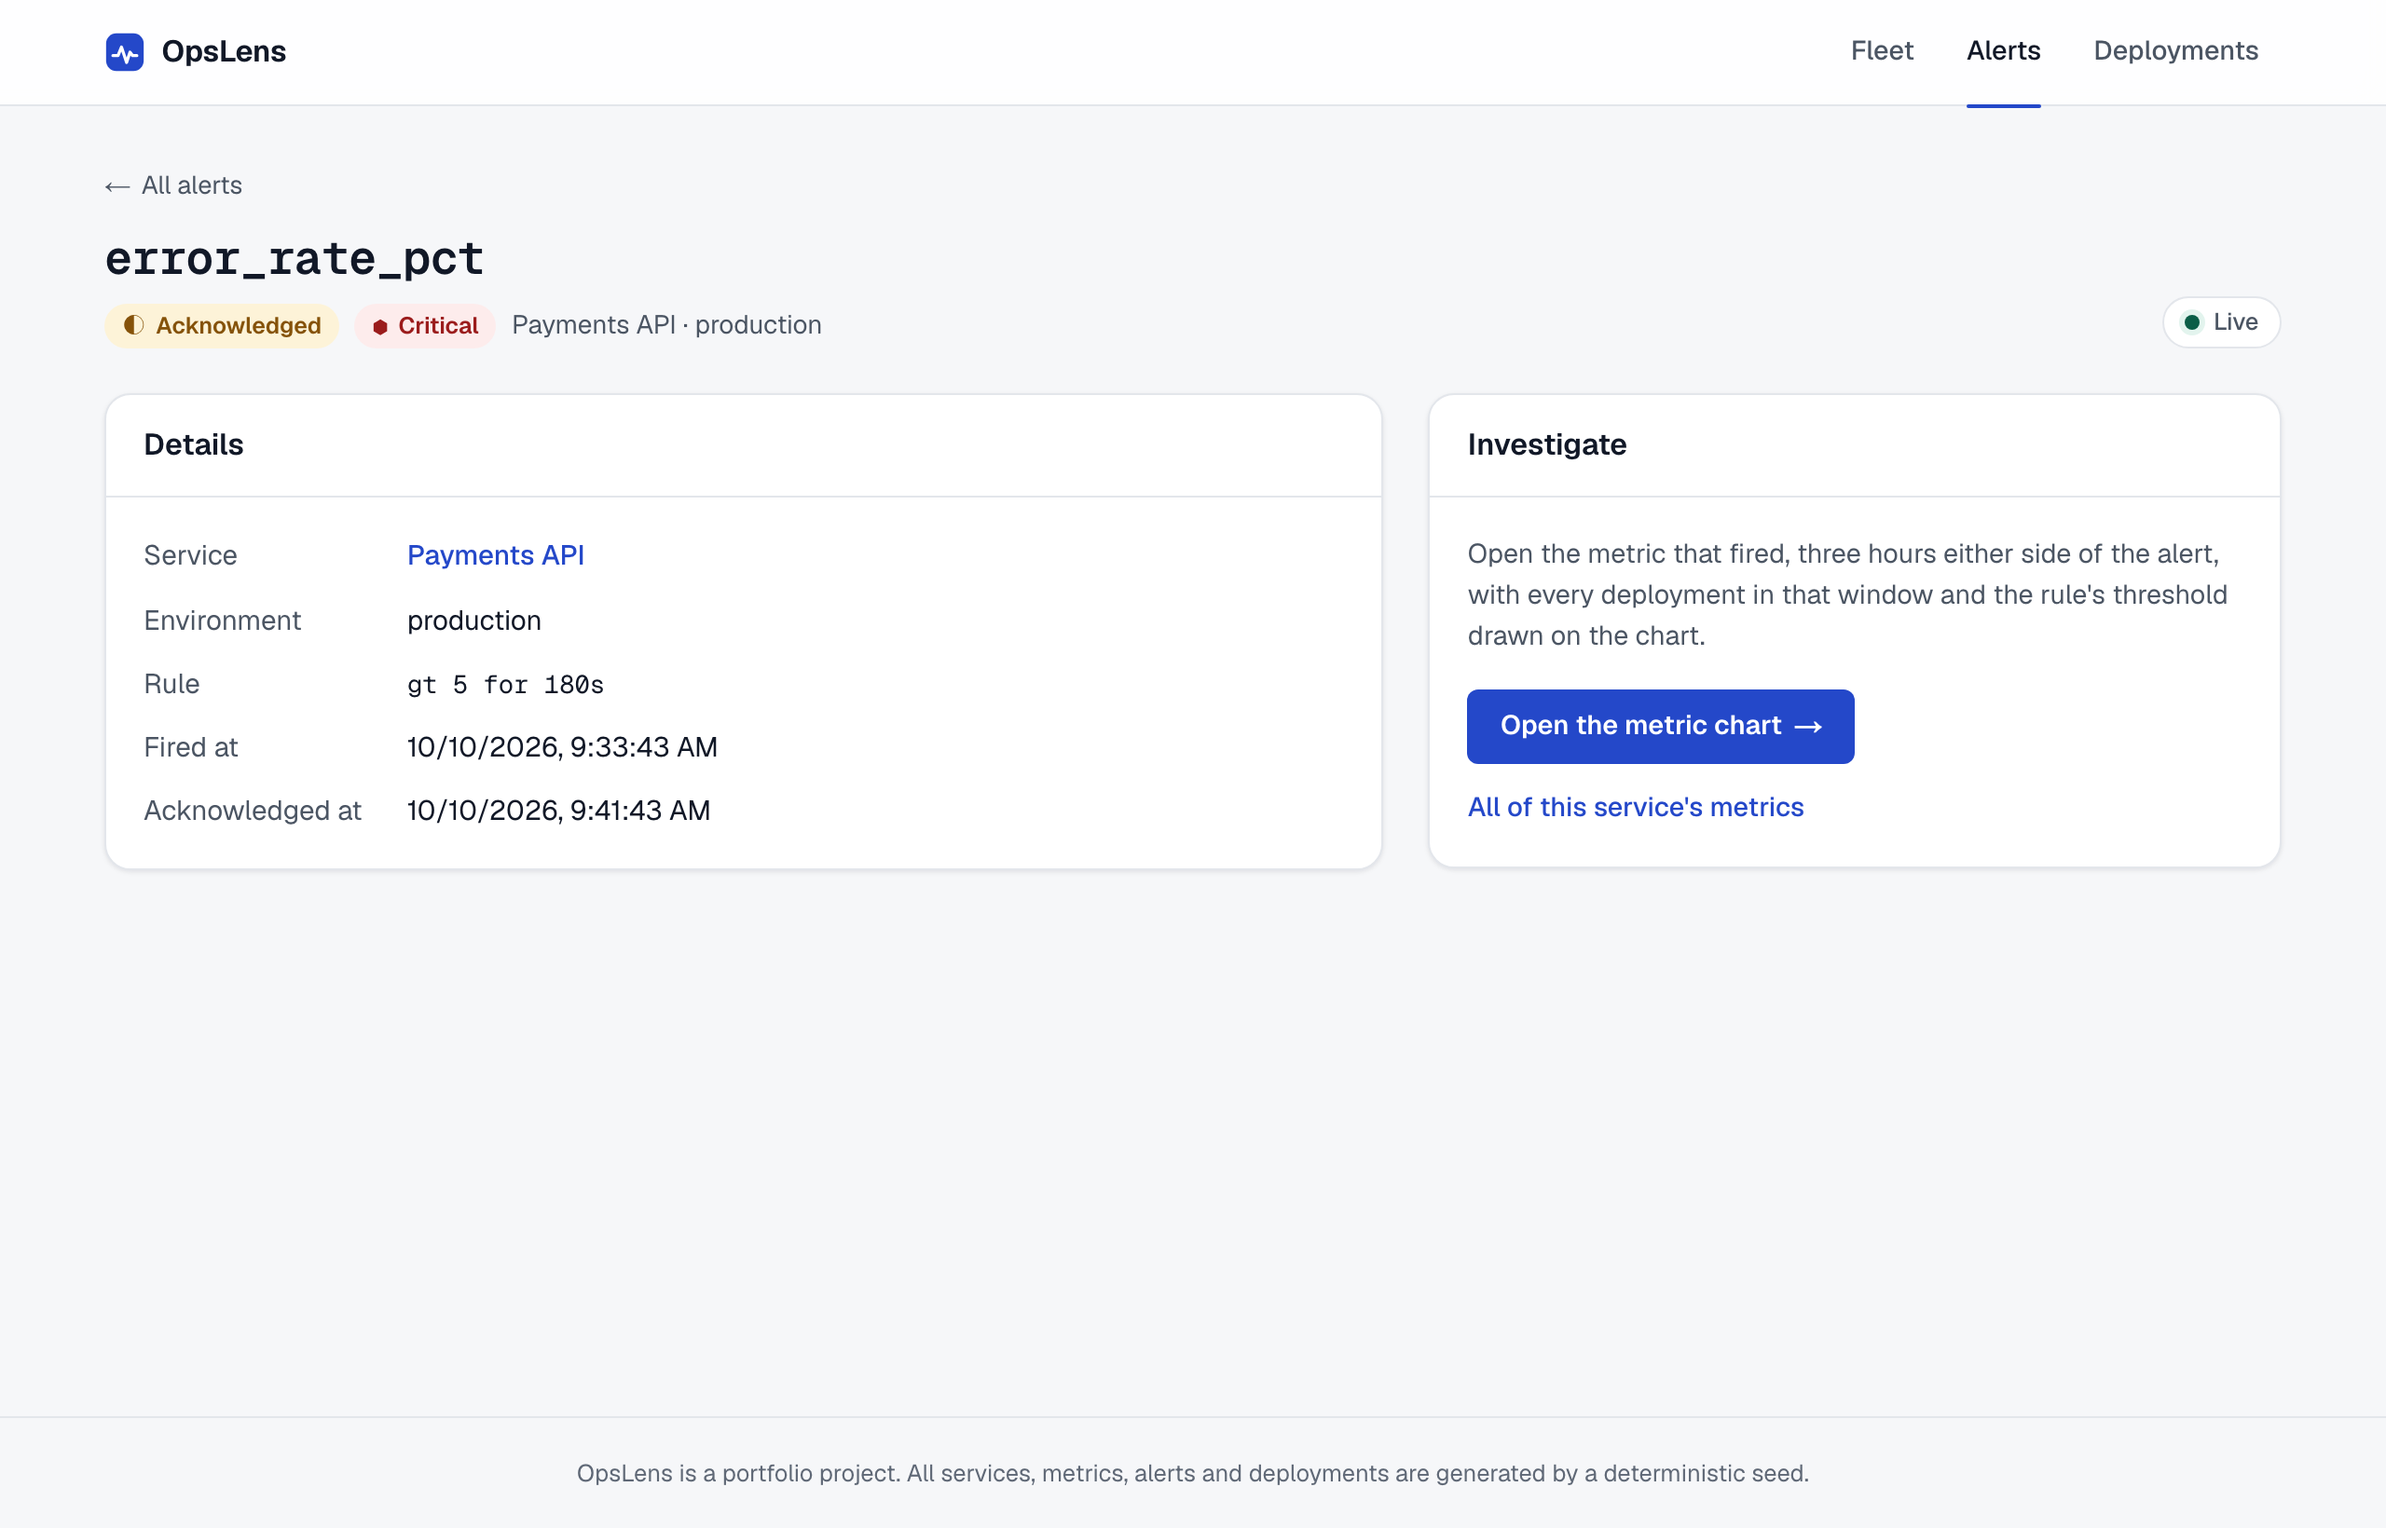
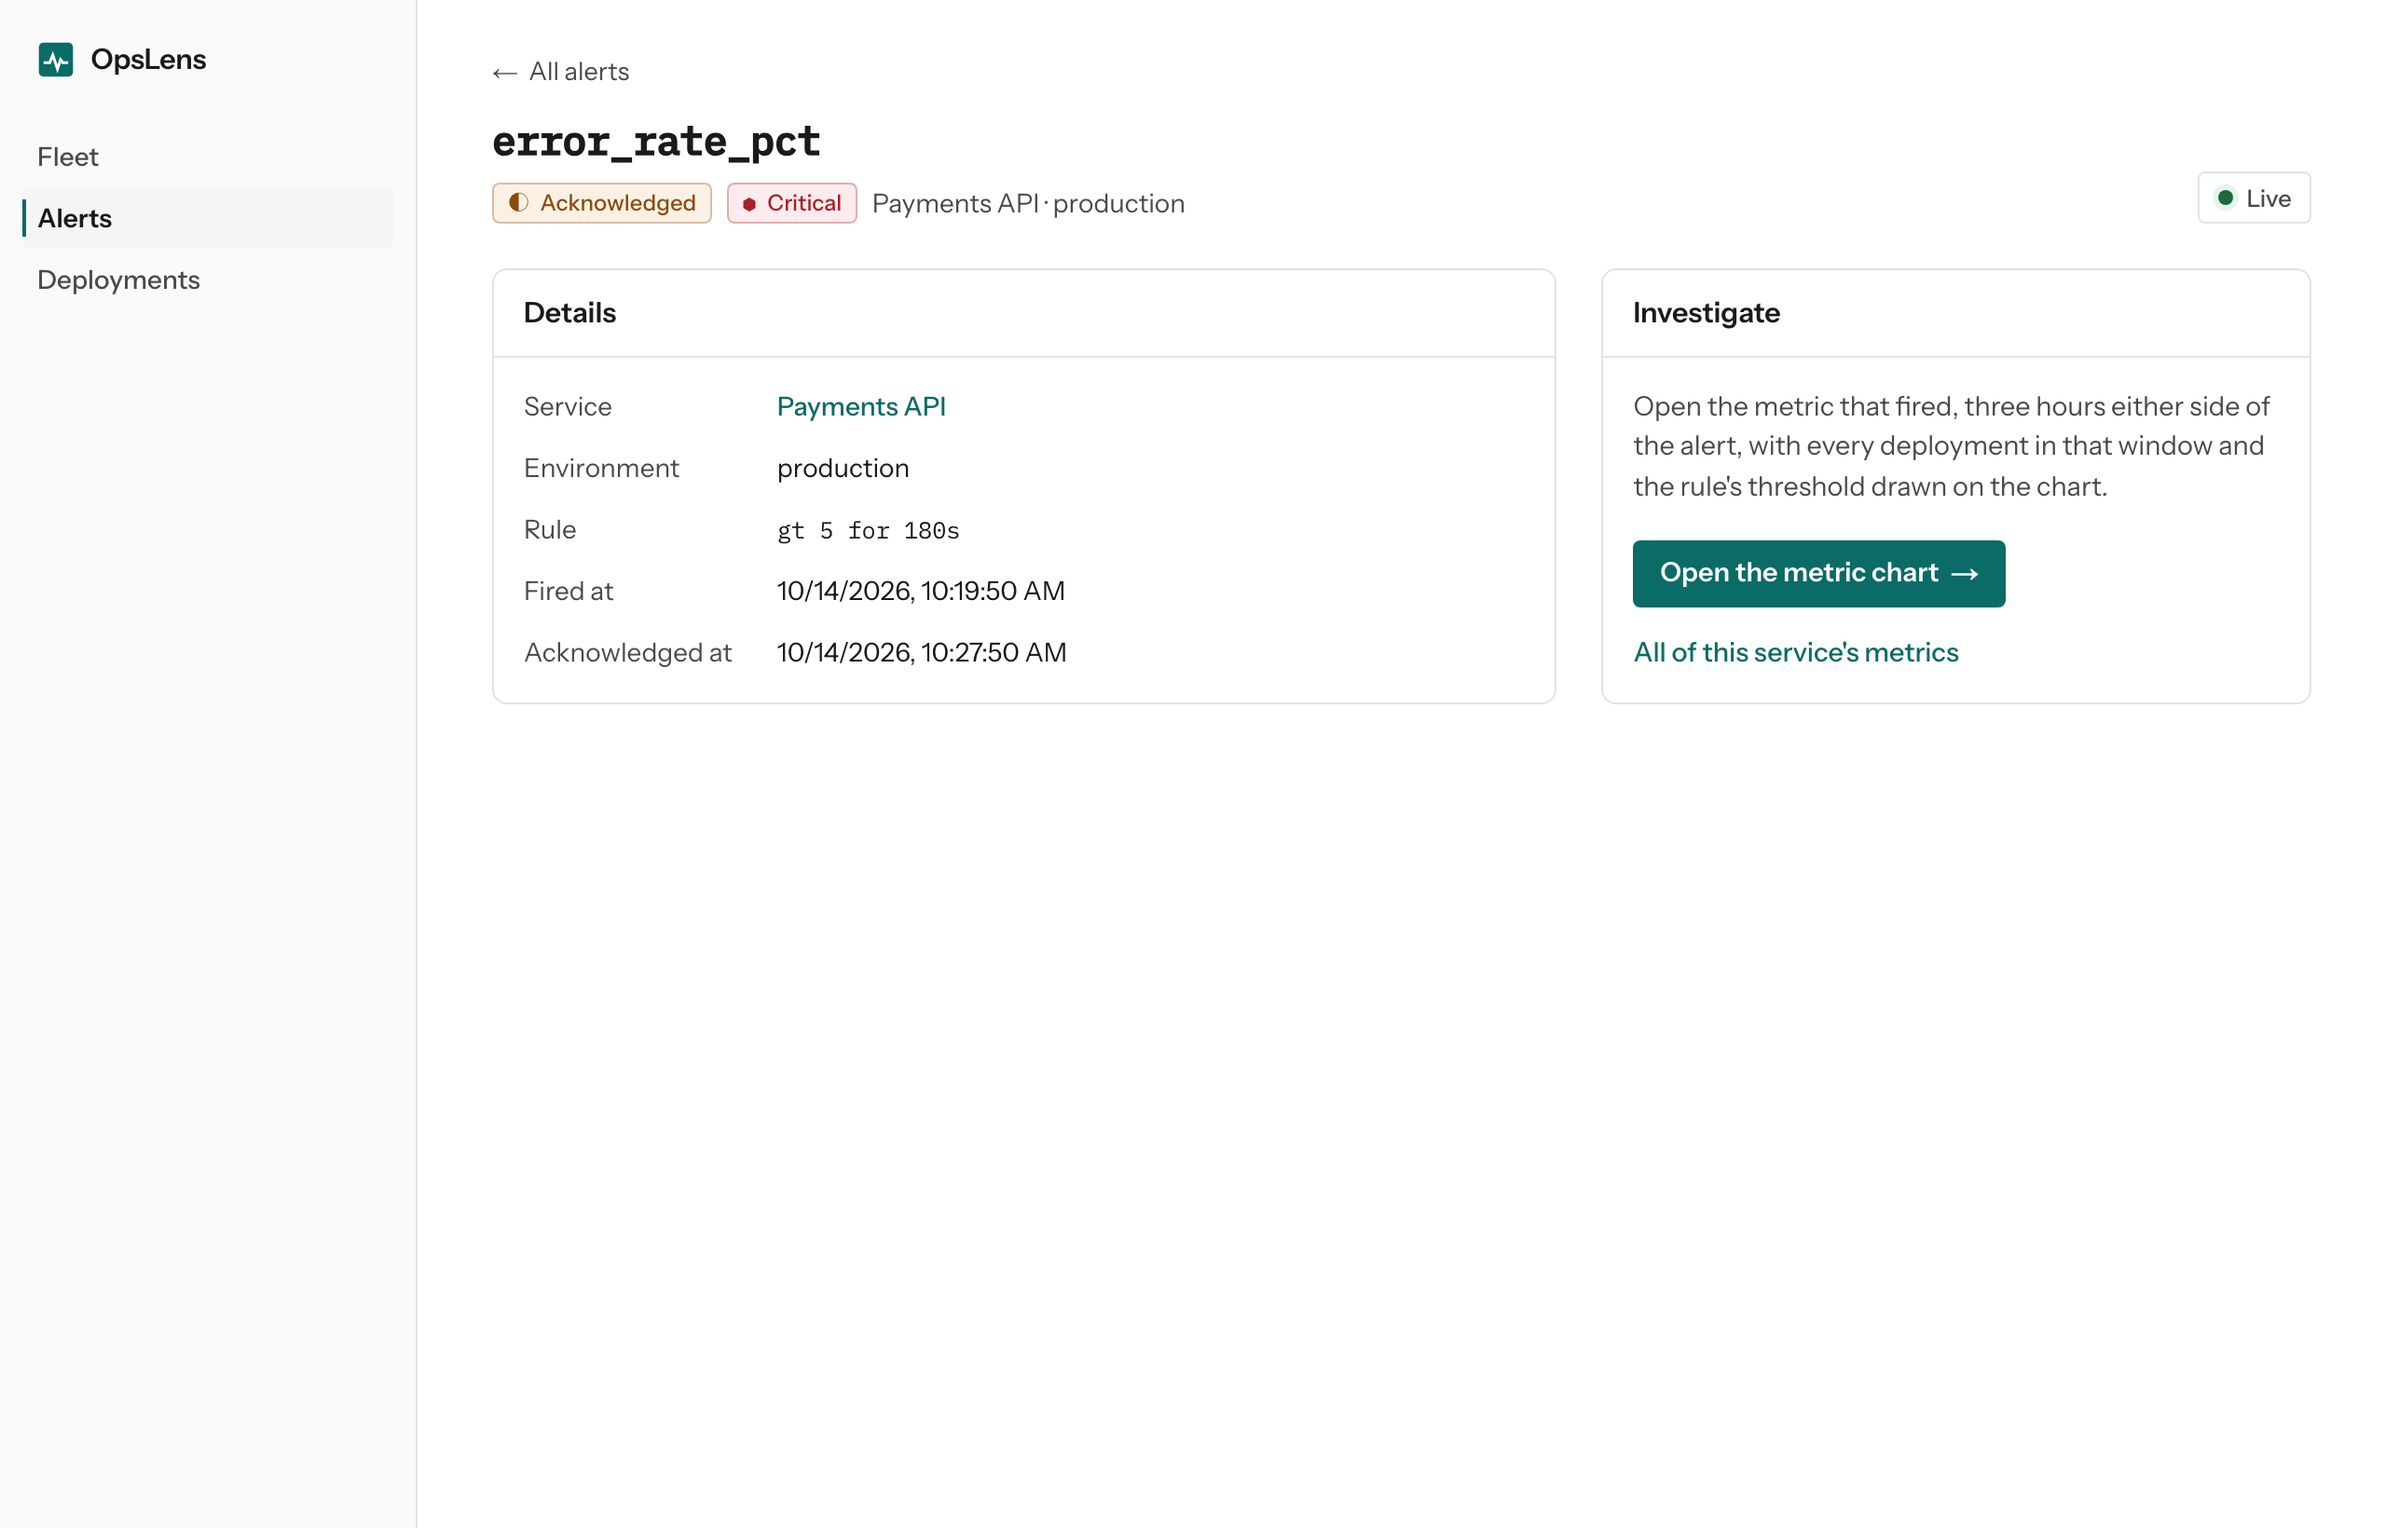
docs: record the dashboard redesign and refresh the screenshots
The README screenshots showed the pre-redesign look, so the five captures
of the seeded demo path are retaken the same way as before: 2x, 1280x820,
from a production build against a fresh seed. live-incident.png is left
as it was, because it comes from the hosted simulation and cannot be
reproduced from the local seed.

The accessibility report gets a section for the redesign rather than an
edit to the Phase 9 one, since that section records what was true then.
It lists the contrast check behind the new palette, the changed visual
signals for the current nav item and pressed presets, the commands run,
and what was not run.

diff --git a/docs/accessibility-report.md b/docs/accessibility-report.md
@@ -145,3 +145,43 @@ accessibility spec now runs its four flows once per scheme
 The 390px scans are a one-off check from this phase and are not part of CI.
 The same limits as above still apply: no screen-reader session was run, and
 nothing here is a conformance claim.
+
+## After Phase 9: the dashboard redesign
+
+A second visual pass replaced the token values (blue-tinted greys and a
+blue accent became neutral greys and a teal accent, shadows became 1px
+borders, Geist became Instrument Sans and IBM Plex Mono) and moved the
+primary navigation from a top bar into a left sidebar that folds back into
+a top bar below 52rem. Every color changed again, so contrast was checked
+again rather than carried over.
+
+**What changed for accessibility:**
+
+- Contrast was computed for each new text and status color against each
+  background it sits on (`--bg`, `--surface`, `--surface-muted` and the
+  sidebar) in both themes before the palette was committed. The lowest
+  ratio was 5.12:1, the light-mode focus ring on `--surface-muted`.
+- The focus ring is now a blue separate from the teal accent, so a focused
+  control never looks like a selected one.
+- `NavLink` still sets `aria-current="page"`. Its visual signal is now a
+  filled row, heavier weight and a 2px accent bar on the leading edge,
+  replacing the underline described above.
+- The time-range presets' pressed state is shown by a bordered surface and
+  heavier weight (the redesign removed shadows, so "raised" no longer
+  applies). `aria-pressed` is unchanged.
+- Status badges became outlined chips and keep their icon and word, so
+  severity and status are still not carried by color.
+- The sidebar and the folded top bar use the same `header` and `nav`
+  landmarks, and the skip link is still the first Tab stop.
+
+**What was run, and the result:**
+
+| Command | Result |
+|---|---|
+| `pnpm -r lint` / `pnpm -r typecheck` / `pnpm -r test` | pass (web: 11 files, 47 tests; api: 5 files, 19 tests) |
+| `pnpm --filter @opslens/web build` | pass |
+| `pnpm --filter @opslens/web exec playwright test`, local dev server, freshly seeded database | pass (11 tests, including 8 axe flows: 4 per color scheme, and the keyboard-only journey) |
+
+Not run for this pass: the API integration suite (no API code changed) and
+the one-off 390px axe scans. Phone width was checked by eye only. The same
+limits apply: no screen-reader session, and no conformance claim.

diff --git a/README.md b/README.md
@@ -31,6 +31,7 @@ limits, about five minutes) · the [planning blueprint](docs/spec/00-overview.md
 | 7 | Accessibility pass with automated keyboard and axe checks ([report](docs/accessibility-report.md)) |
 | 9 | Visual design system, demo-path fixes, [case study](docs/case-study.md) |
 | After 9 | Live simulated data, live chart ranges, hosting config ([deployment guide](docs/deployment.md)) |
+| After 9 | Dashboard redesign: neutral palette, flat bordered surfaces, left sidebar navigation ([accessibility re-check](docs/accessibility-report.md#after-phase-9-the-dashboard-redesign)) |
 
 ## Stack
 
